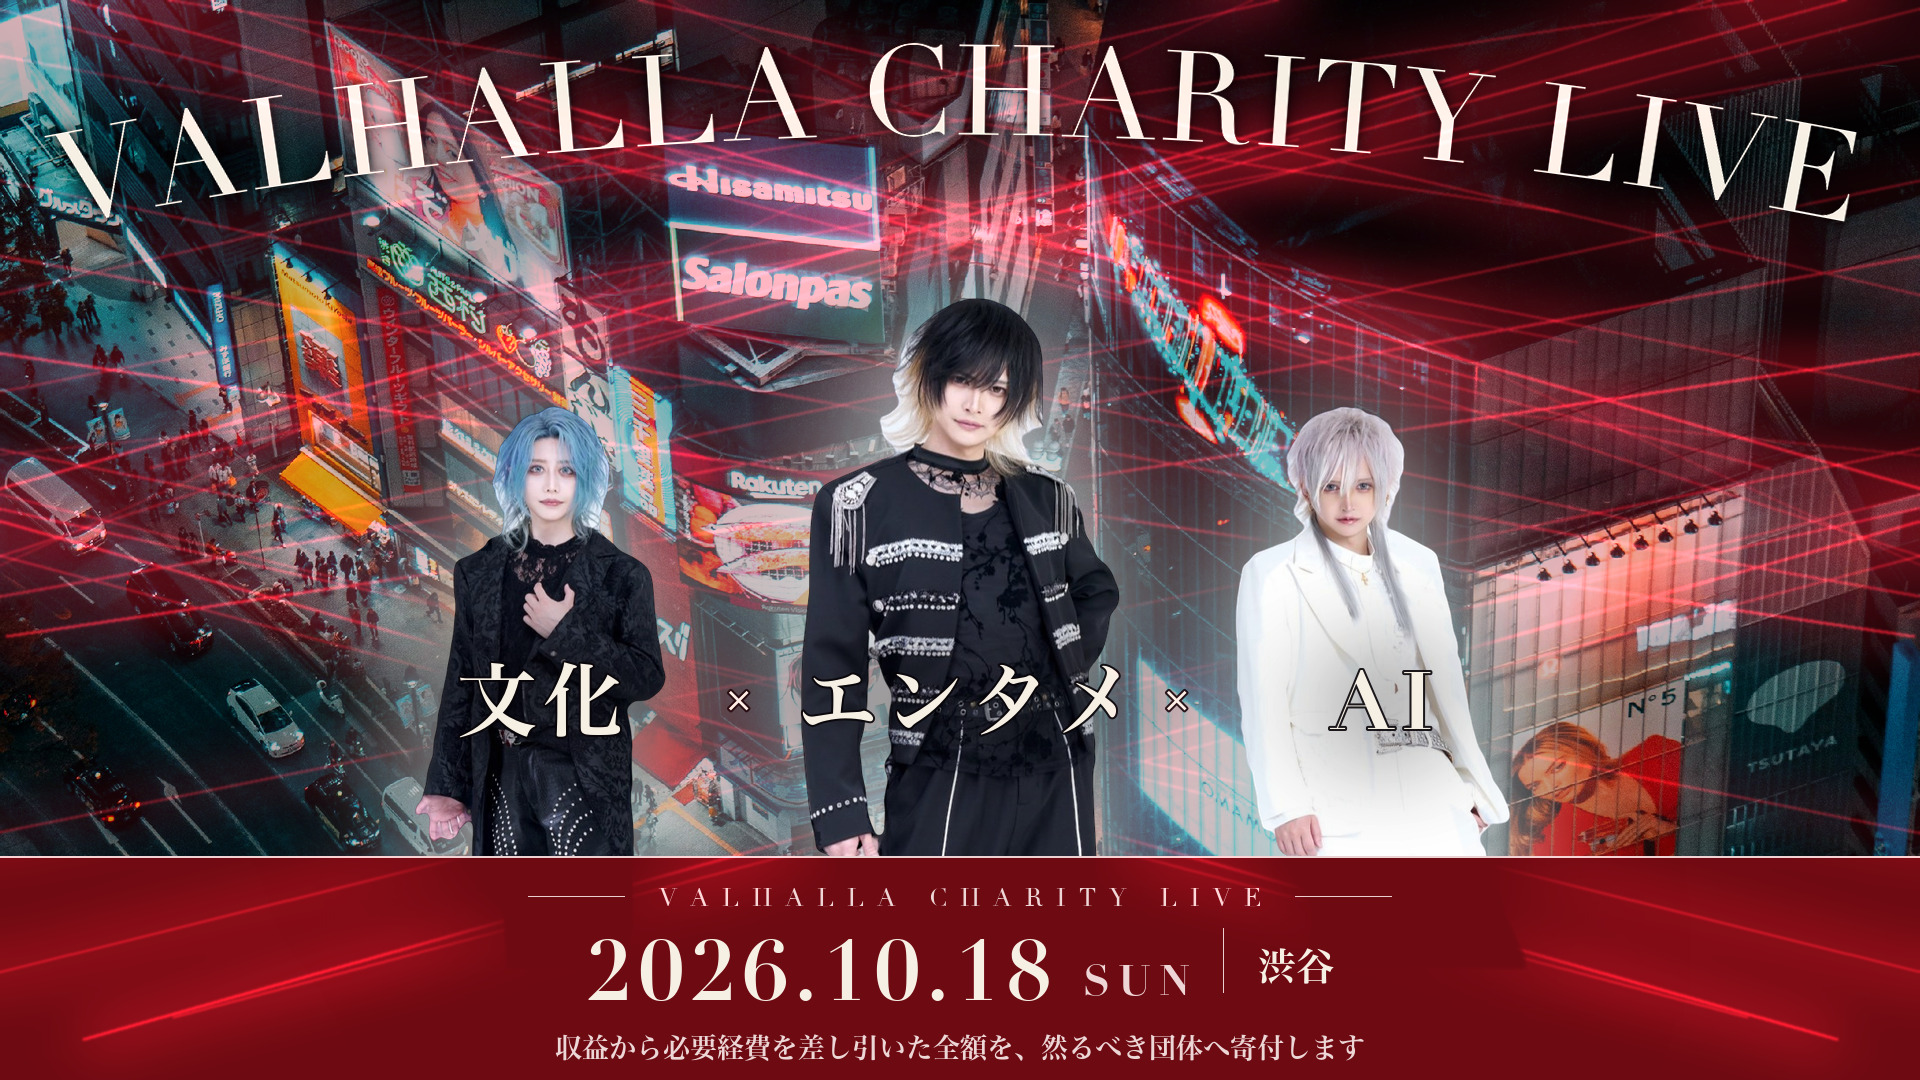
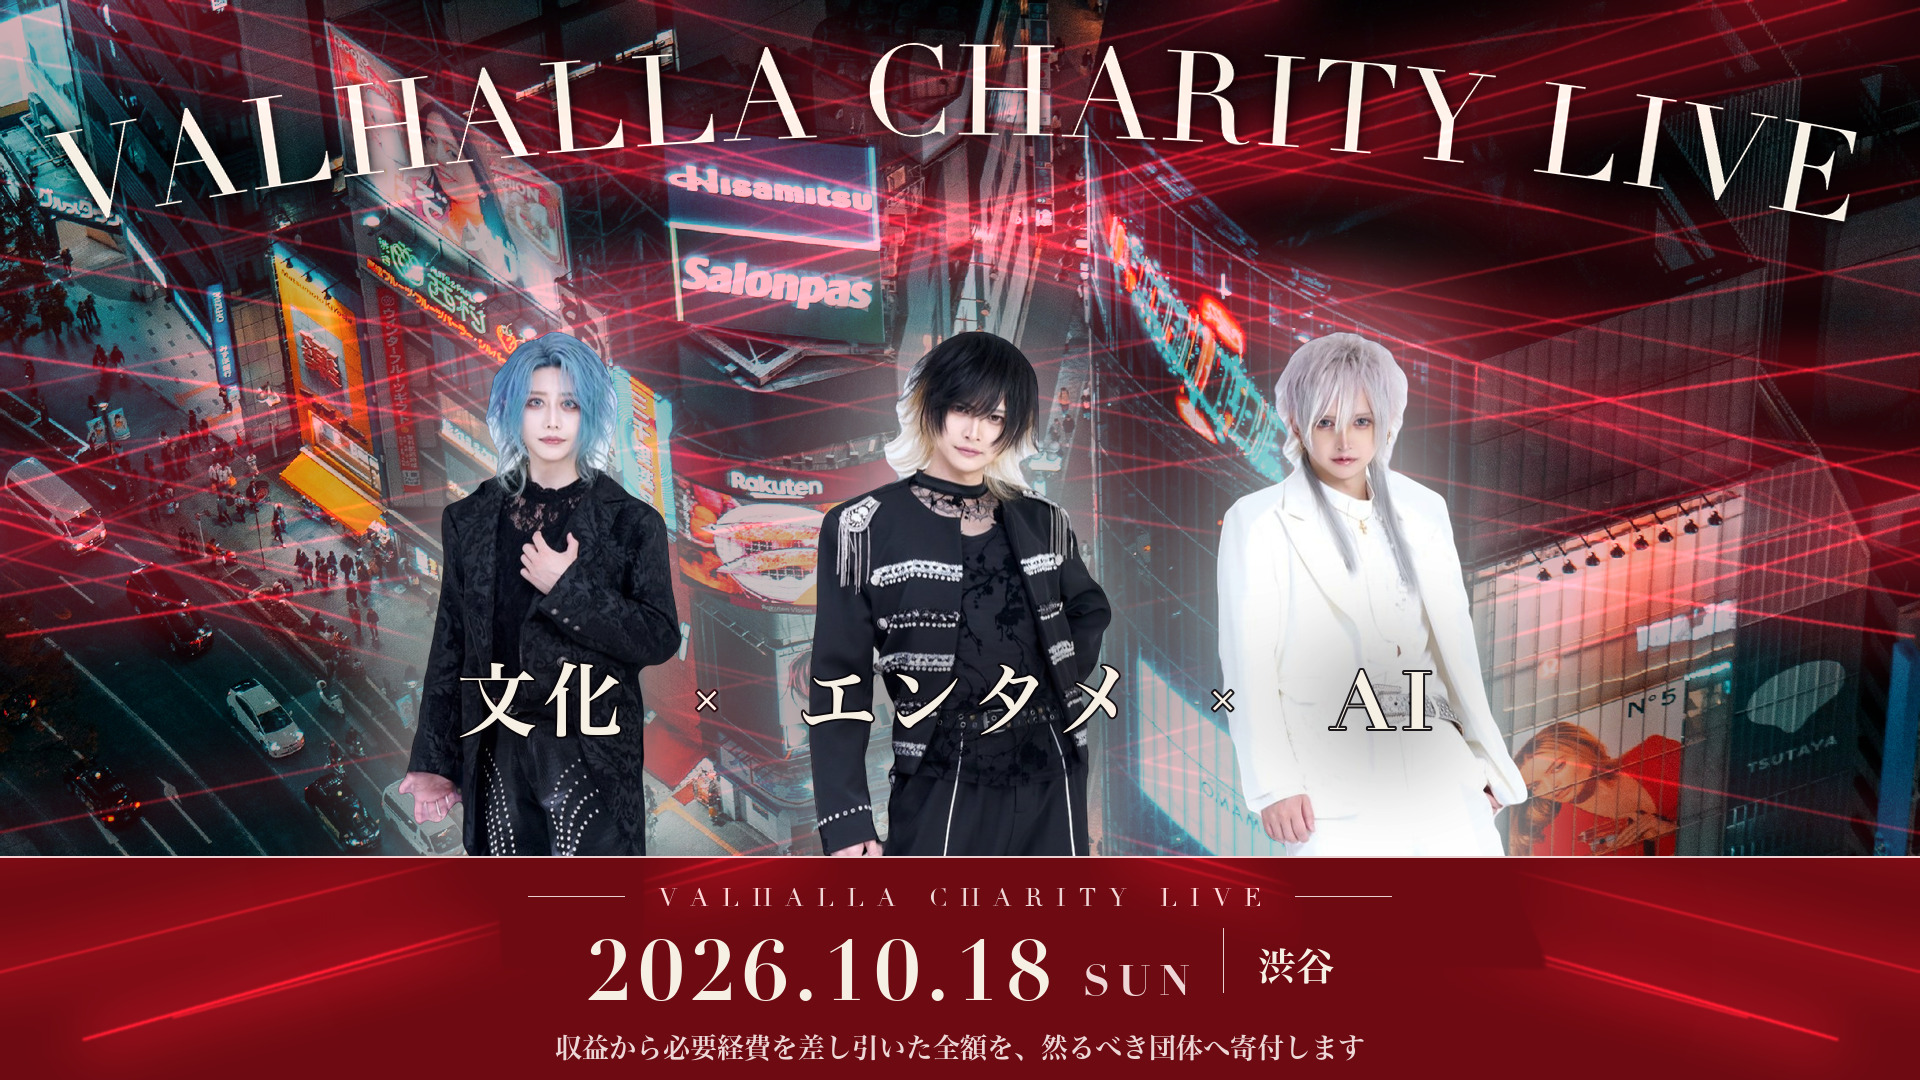
charity: scale the three members alike
The centre figure was rendered 19% larger to pull the eye inward. kazuma
wants them equal, so all three take one ratio and their heads now sit on
a line. 0.59 is where the tallest head clears the title's ink by 33px —
larger touches the type, smaller leaves the row floating under it.

Equal widths moved the gaps, so the crosses move too. They now sit
midway between the words rather than midway between the bodies: エンタメ
is four characters, and centring on the bodies left 19px on its right
and 106px on 文化's left.

Changed region(s): [[0.1875, 0.275, 0.5938, 0.7944], [0.5938, 0.2444, 0.8125, 0.7944]]

diff --git a/assets/charity/create_flyer_wide.py b/assets/charity/create_flyer_wide.py
@@ -197,7 +197,7 @@ def cutouts() -> list[Image.Image]:
 
 
 def add_people(base: Image.Image):
-    """中央を大きく、左右を小さく下げて、中央へ視線が集まる形にする。
+    """3人を同じ大きさで、足元をそろえて横一列に置く。
 
     ここでは背後のもやまでを描き、(配置, もやのマスク, シルエット) を返す。
     人物そのものは paste_people で最後に貼る。文字より後に貼ることで、
@@ -205,7 +205,13 @@ def add_people(base: Image.Image):
     """
     people = cutouts()
     base_y = 968                                   # 足元をそろえる高さ
-    plan = ((0, 0.52, -420), (1, 0.62, 0), (2, 0.52, 420))
+    # 以前は中央だけ 0.62、左右を 0.52 にして中央を大きく見せていたが、
+    # 3人は同じ大きさにする（kazuma 判断 2026-09-10）。
+    # 0.59 は、頭の上端が y=331 になり、上のイベント名（インク下端 y=298）
+    # との間が 33px 空く値。これ以上大きくすると頭が文字に触れ、
+    # これより小さいと上が空きすぎて3人が浮いて見える。
+    RATIO = 0.59
+    plan = ((0, RATIO, -420), (1, RATIO, 0), (2, RATIO, 420))
     placed = []
     for idx, ratio, dx in plan:
         person = people[idx]
@@ -428,7 +434,9 @@ def word_block(text: str, font: ImageFont.FreeTypeFont, fill, tracking: float,
 def add_waist_words(base: Image.Image) -> None:
     """「文化 × エンタメ × AI」を3人の腰の高さに、まっすぐ横一列で置く。
 
-    語と人物を1対1で重ね、× は人と人の隙間に落とす。
+    語と人物を1対1で重ね、× は語と語のちょうど中間に置く。
+    人の隙間の真ん中に置くと、「エンタメ」が4文字で長いぶん右だけ
+    詰まって見えたため、語の端からの距離で揃えている。
         文化 → MIO ／ × → すき間 ／ エンタメ → KØU ／ × → すき間 ／ AI → RAY
 
     高さは全部そろえる。書体ごとに字面が違うので、箱ではなくインクの
@@ -444,9 +452,9 @@ def add_waist_words(base: Image.Image) -> None:
     cross = face(MINCHO, 46)
 
     for text, font, cx, tr in (("文化", mincho, 540, 6),
-                               ("×", cross, 738, 0),
+                               ("×", cross, 707, 0),
                                ("エンタメ", mincho, 960, 6),
-                               ("×", cross, 1176, 0),
+                               ("×", cross, 1222, 0),
                                ("AI", didot, 1380, 8)):
         block = word_block(text, font, CREAM + (255,), tr, stroke=2)
         layer.alpha_composite(block, (round(cx - block.width / 2),

diff --git a/tools/build-artifact.py b/tools/build-artifact.py
@@ -184,7 +184,11 @@ def main() -> None:
     n_img = html.count("<figure")
     n_tbd = html.count('class="wip"') + html.count('class="tbd"')
 
-    doc = f"""<title>VALHALLA CHARITY LIVE 本文</title>
+    # 文字コードを自分で名乗る。Artifact の枠は付けてくれるが、
+    # この HTML を単体でブラウザやローカルサーバから開くと、
+    # 宣言が無いぶん日本語が化ける。
+    doc = f"""<meta charset="utf-8">
+<title>VALHALLA CHARITY LIVE 本文</title>
 <link rel="preconnect" href="https://fonts.googleapis.com">
 <link rel="stylesheet" href="{FONTS}">
 <style>{CSS}</style>
